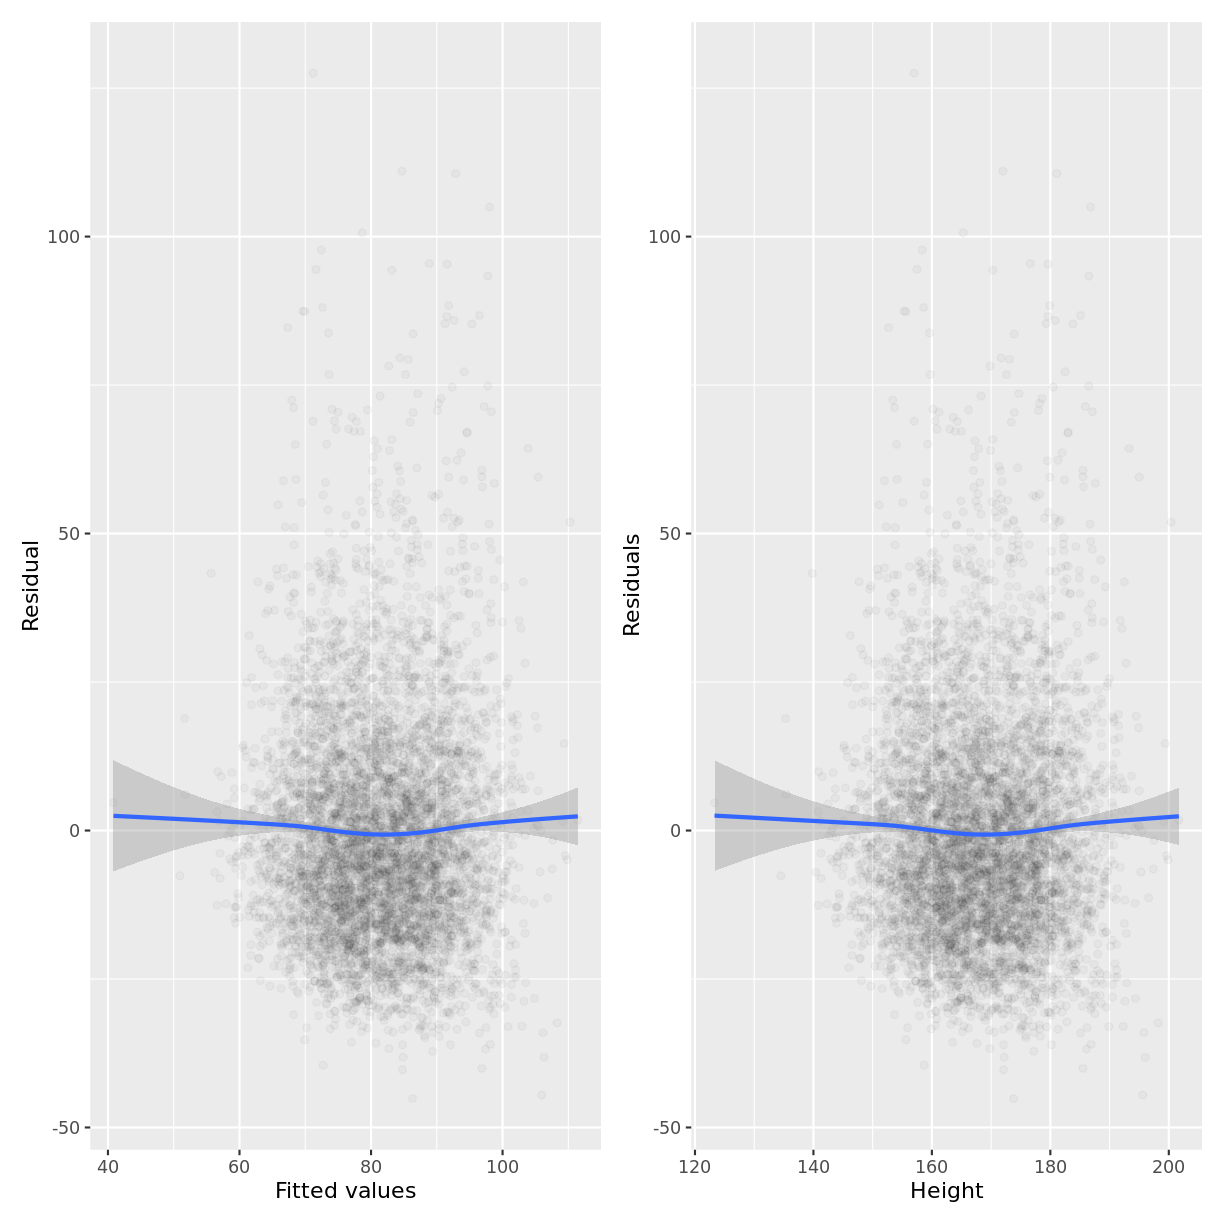
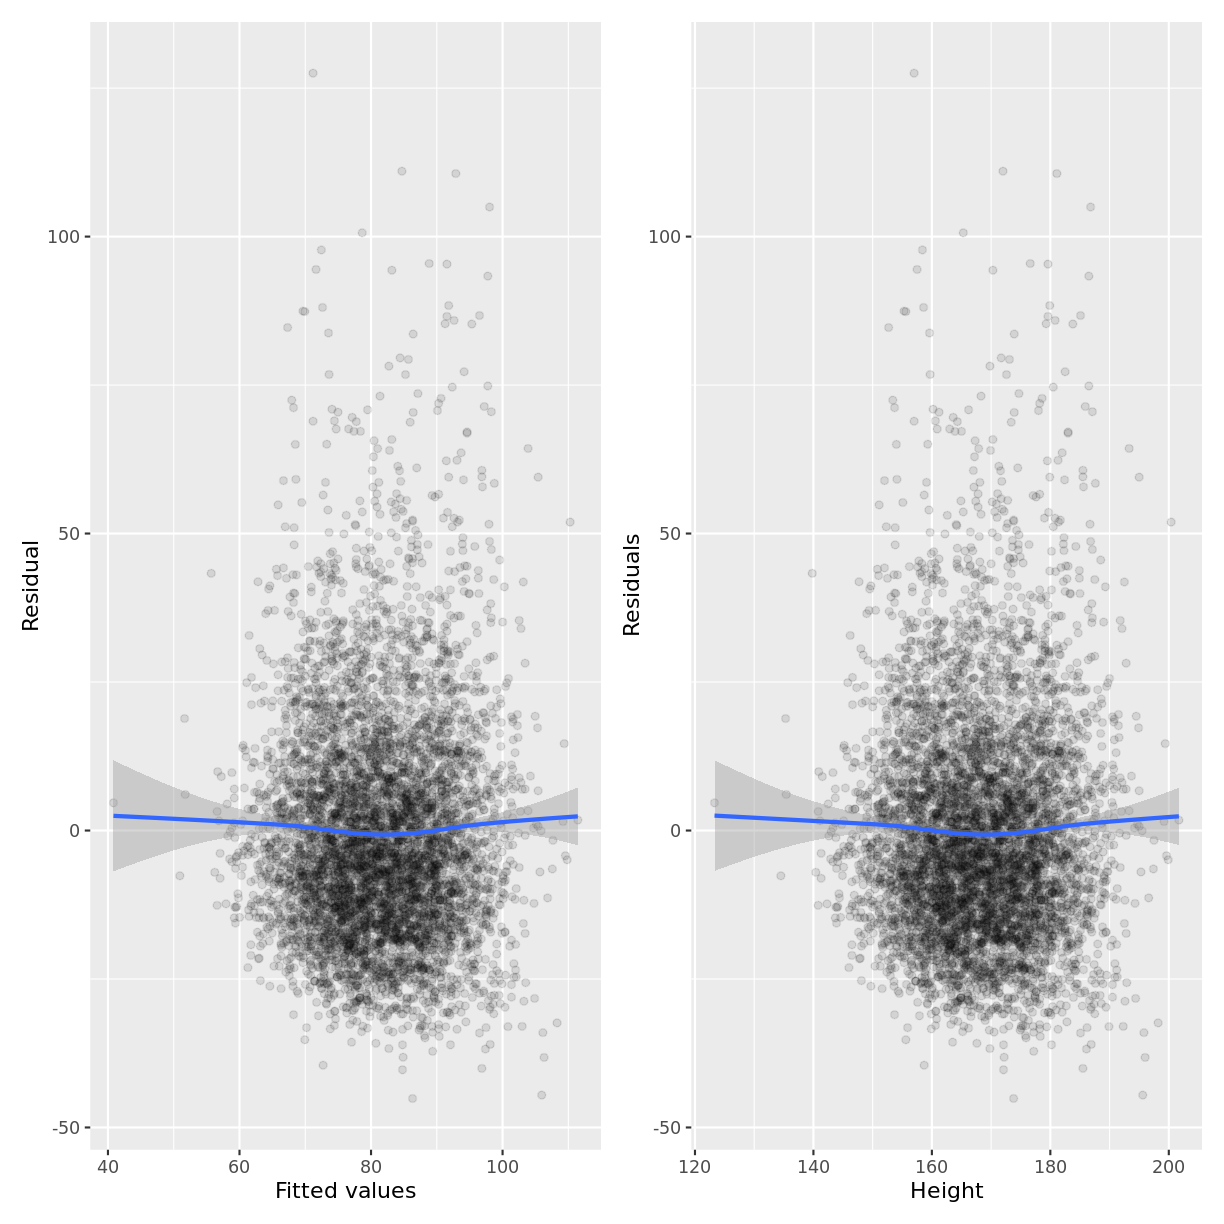
add representativeness challenge

Changed region(s): [[0.1863, 0.4036, 0.4346, 0.8693], [0.683, 0.4036, 0.9314, 0.8693]]

diff --git a/_episodes/06-fitAndAssumptionSLR.md b/_episodes/06-fitAndAssumptionSLR.md
@@ -138,7 +138,7 @@ The validity assumption states that the model is appropriate for the research qu
 
 A) Does the outcome variable reflect the *phenomenon of interest*? For example, it would not be appropriate to take our `Pulse` vs `PhysActive` model as representative of the effect of physical activity on general health.  
 B) Does the model include *all relevant explanatory variables*? For example, we might decide that our model of `TotChol` vs `BMI` requires inclusion of the `SmokeNow` variable. While not discussed in this lesson, inclusion of more than one explanatory variable is covered in the [multiple linear regression for public health](https://carpentries-incubator.github.io/multiple-linear-regression-public-health/) lesson.   
-C) Does the model generalise to our *case of interest*? For example, it would not be appropriate to model the effect of a *change* in physical activity on pulse using out `Pulse` vs `PhysActive` model. Neither would it be appropriate to take the model, which was constructed using people of all ages, as representative of the effect of physical activity on pulse in those aged 70+. In both examples, we would need a model constructed on different data to answer the question.  
+C) Does the model generalise to our *case of interest*? For example, it would not be appropriate to model the effect of a *change* in physical activity on pulse using out `Pulse` vs `PhysActive` model. Neither would it be appropriate to use the model, which was constructed using people of all ages, if we were specifically interested the effect of physical activity on pulse in those aged 70+. In both examples, we would need a model constructed on different data to answer the research question.  
 
 >## Exercise
 > You are asked to model the effect of age on general health of South-Americans. 
@@ -149,13 +149,28 @@ C) Does the model generalise to our *case of interest*? For example, it would no
 > > ## Solution
 > A) There is more to general health than `BMI` alone. In this case, we may wish to use a different outcome variable. Alternatively, we could make the research question more specific by specifying that we are studying the effect of `Age` on `BMI` rather than general health.  
 > B) Since we are specifically asked to study the effect of `Age` on general health, we may conclude that no further explanatory variables are relevant to the research question. However, there may still be explanatory variables that are important to include, such as income or sex, if the effect of `Age` on general health depends on other explanatory variables. This will be covered in the [next lesson](https://carpentries-incubator.github.io/multiple-linear-regression-public-health/).  
-> C) Since the NHANES data was collected from individuals in the US, our model may not be representative of individuals in South-America. 
+> C) Since the NHANES data was collected from individuals in the US, this data may not be suitable for a research question relating to individuals in South-America. 
 > {: .solution}
 {: .challenge}
 
 
 ### 2. Representativeness
-The representativeness assumption states that the *sample* is representative of the *population*. More specifically, the individuals from which our sample is formed are representative of the population of interest. The exception to this requirement is that the sample distribution can differ from the population distribution in the explanatory variables included in the model. For example, let us assume that in the American population, 40% of individuals are physically active. In the NHANES data, ~56% of individuals are physically active. This discrepancy is dealt with by our `Pulse` vs `PhysActive` model, since `PhysActive` is an explanatory variable. However, if the majority of individuals in the NHANES data were over the age of 70, then our `Pulse` vs `PhysActive` model would not be representative of the American population. We would need to include `Age` as an explanatory variable to meet the representativeness assumption. 
+The representativeness assumption states that the *sample* is representative of the *population* to which we are generalising our findings. More specifically, the individuals from which our sample is formed are representative of the population of interest. While validity covered the relationship between our sample and the case of interest, representativeness covers the relationship between our model and another population of interest. For example, let's say we used a subset of the NHANES data to study the relationship between physical activity and pulse in 70+ individuals in the US. Since we used a subset appropriate to our research question, our model has validity. Our model may also be representative of 70+ individuals in the UK, in which case we could generalise our results without violating the representativeness assumption. However, our model is not representative of adults of all ages, so we cannot use it to generalise to that population. 
+
+>## Exercise
+> You are asked to model the effect of age on BMI of individuals in the US. 
+> A colleague proposes that you fit a simple linear regression to the NHANES data,
+> using `BMI` as the outcome variable and `Age` as the explanatory variable.
+>
+> 1. Does the model generalise to your case of interest?  
+> 2. Could you generalise the results of your model to individuals in South-America?  
+> 
+> > ## Solution
+> > 1. Since our case of interest is US adults and our data is a sample from the US population, our model generalises to the case of interest and we are not violating this aspect of the validity assumption.  
+> > 2. Since the relationshop between age and BMI might differ between individuals in the US and South-America, we may not be able to generalise our results in this way. Our model may violate the representativeness assumption if we try to generalise to individuals in South-America. 
+> {: .solution}
+{: .challenge}
+
 
 ### 3. Linearity and additivity
 This assumption states that our outcome variable has a linear, additive relationship with the explanatory variables.  
@@ -282,13 +297,13 @@ residualData <- tibble(resid = resid(Weight_Height_lm),
                     height = Weight_Height_lm$model$Height)
 
 p1 <- ggplot(residualData, aes(x = fitted, y = resid)) +
-  geom_point(alpha = 0.03) +
+  geom_point(alpha = 0.1) +
   geom_smooth() +
   ylab("Residual") +
   xlab("Fitted values")
 
 p2 <- ggplot(residualData, aes(x = height, y = resid)) +
-  geom_point(alpha = 0.03) +
+  geom_point(alpha = 0.1) +
   geom_smooth() +
   ylab("Residuals") +
   xlab("Height")
@@ -315,13 +330,13 @@ assumption has been violated.
 > >                     agemonths = BPSysAve_AgeMonths_lm$model$AgeMonths)
 > > 
 > > p1 <- ggplot(residualData, aes(x = fitted, y = resid)) +
-> >   geom_point(alpha = 0.03) +
+> >   geom_point(alpha = 0.1) +
 > >   geom_smooth() +
 > >   ylab("Residual") +
 > >   xlab("Fitted values") 
 > > 
 > > p2 <- ggplot(residualData, aes(x = agemonths, y = resid)) +
-> >   geom_point(alpha = 0.03) +
+> >   geom_point(alpha = 0.1) +
 > >   geom_smooth() +
 > >   ylab("Residuals") +
 > >   xlab("Age in Months") 
